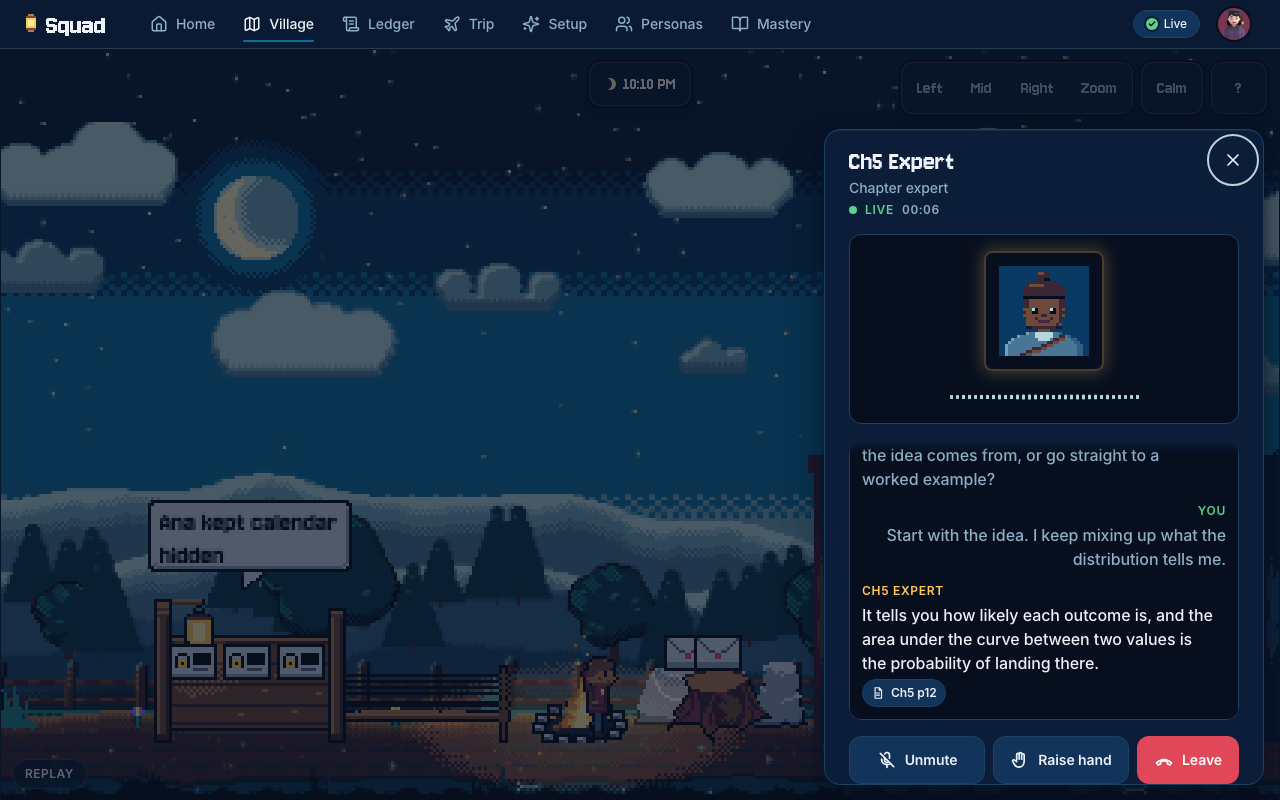
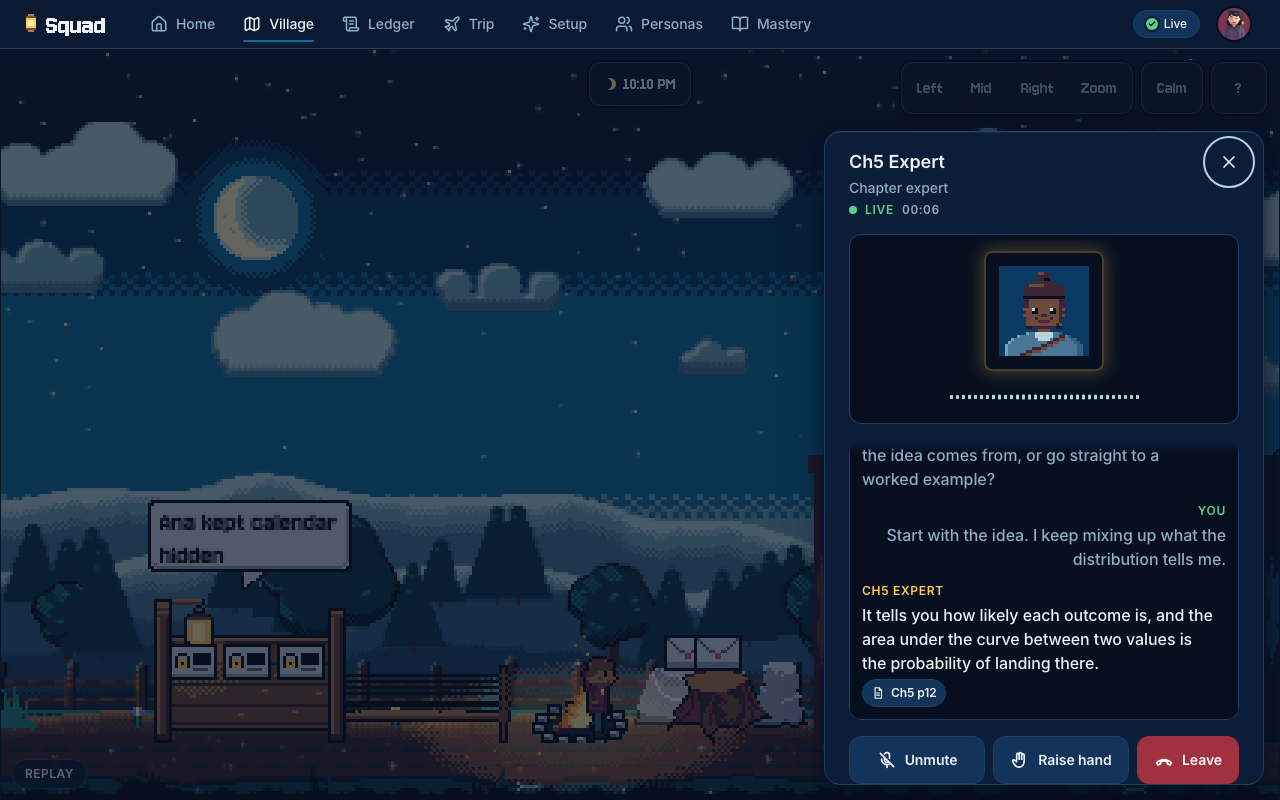
wire-web: second-round fixes (Inter for read text, darker danger fill, close button gutter), refreshed shots

diff --git a/packages/web/src/overlays/QuizCard.css b/packages/web/src/overlays/QuizCard.css
@@ -22,12 +22,12 @@
   background: var(--lv-surface-2);
   border: 1px solid var(--lv-line);
   color: var(--lv-accent);
-  font: 400 var(--text-tag-lg) / 1 var(--lv-font-caps);
+  font: 600 var(--text-xs) / 1 var(--lv-font-ui);
   letter-spacing: var(--tracking-caps);
   text-transform: uppercase;
 }
 .lv-quiz__label {
-  font: 400 var(--text-pixel-sm) / var(--lh-pixel-sm) var(--lv-font-pixel);
+  font: 600 var(--text-sm) / var(--lh-sm) var(--lv-font-ui);
   color: var(--lv-text-dim);
 }
 .lv-quiz__q {
@@ -99,7 +99,7 @@
   border-radius: var(--lv-r2);
   border: 1px solid var(--lv-line);
   background: var(--lv-surface);
-  font: 400 var(--text-pixel-sm) / 1 var(--lv-font-pixel);
+  font: 600 var(--text-sm) / 1 var(--lv-font-ui);
   color: var(--lv-text-dim);
   transition:
     background-color var(--dur-fast) var(--lv-ease-out),

diff --git a/packages/web/src/overlays/kit/overlay.css b/packages/web/src/overlays/kit/overlay.css
@@ -158,7 +158,8 @@
   background: transparent;
 }
 .lv-btn--danger {
-  background: var(--lv-alert);
+  /* darkened so white label text clears 4.5:1 on the night palette */
+  background: color-mix(in oklab, var(--lv-alert) 78%, black);
   border-color: transparent;
   color: white;
 }
@@ -225,7 +226,7 @@
 .lv-close {
   position: absolute;
   top: var(--lv-s2);
-  right: var(--lv-s2);
+  right: var(--lv-s3);
   width: var(--lv-tap);
   height: var(--lv-tap);
   padding: 0;

diff --git a/packages/web/src/primitives/avatar.css b/packages/web/src/primitives/avatar.css
@@ -93,12 +93,8 @@
   image-rendering: crisp-edges;
 }
 .sq-avatar__initials {
-  font: 400 calc(var(--s) * 0.42)/1 var(--font-pixel);
+  font: 600 max(12px, calc(var(--s) * 0.4))/1 var(--font-sans);
   color: var(--sq-moon);
-  -webkit-font-smoothing: none;
-}
-.sq-avatar--xs .sq-avatar__initials {
-  font-size: 12px;
 }
 .sq-avatar__ring {
   position: absolute;

diff --git a/packages/web/src/primitives/stepper.css b/packages/web/src/primitives/stepper.css
@@ -47,8 +47,7 @@ button.sq-step__btn {
   border-radius: 50%;
   border: 2px solid var(--border);
   background: var(--card);
-  font: 400 16px/1 var(--font-pixel);
-  -webkit-font-smoothing: none;
+  font: 600 var(--text-sm)/1 var(--font-sans);
   color: var(--muted-foreground);
   transition:
     background-color var(--dur-base) var(--ease-out),

diff --git a/packages/web/src/overlays/CallPanel.css b/packages/web/src/overlays/CallPanel.css
@@ -80,7 +80,8 @@
   min-width: 0;
 }
 .lv-call__name {
-  font: 400 var(--text-pixel-md) / var(--lh-pixel-md) var(--lv-font-pixel);
+  font: 600 var(--text-lg) / var(--lh-lg) var(--lv-font-ui);
+  letter-spacing: var(--tracking-ui);
   color: var(--lv-text);
   overflow-wrap: anywhere;
 }

diff --git a/packages/web/src/primitives/button.css b/packages/web/src/primitives/button.css
@@ -60,7 +60,7 @@
   --btn-fg: var(--foreground);
 }
 .sq-btn--danger {
-  --btn-bg: var(--destructive);
+  --btn-bg: color-mix(in oklab, var(--destructive) 78%, black);
   --btn-fg: #fff;
   --btn-border: transparent;
   --btn-hover: color-mix(in oklab, var(--destructive) 88%, white);
